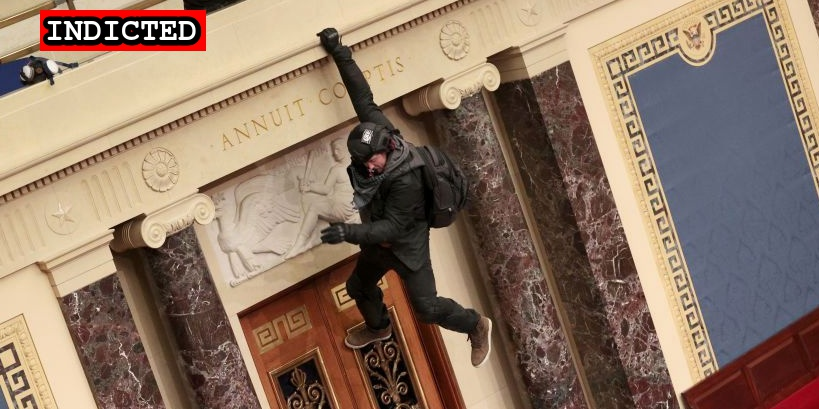
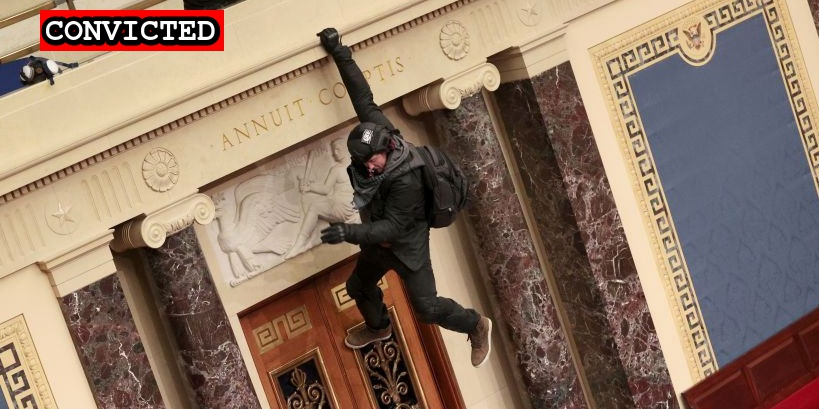
Guilty plea

Changed region(s): [[0.0305, 0.0, 0.2747, 0.1467]]

diff --git a/docs/_suspects/josiah-colt.md b/docs/_suspects/josiah-colt.md
@@ -3,11 +3,11 @@ name: Josiah Colt
 lastName: Colt
 aka:
 residence: Idaho
-status: Indicted
+status: Convicted
 date: 2021-01-12
 charged: 2021-01-12
 indicted: 2021-02-03
-convicted: 
+convicted: 2021-07-14
 sentenced: 
 dismissed: 
 age: 34
